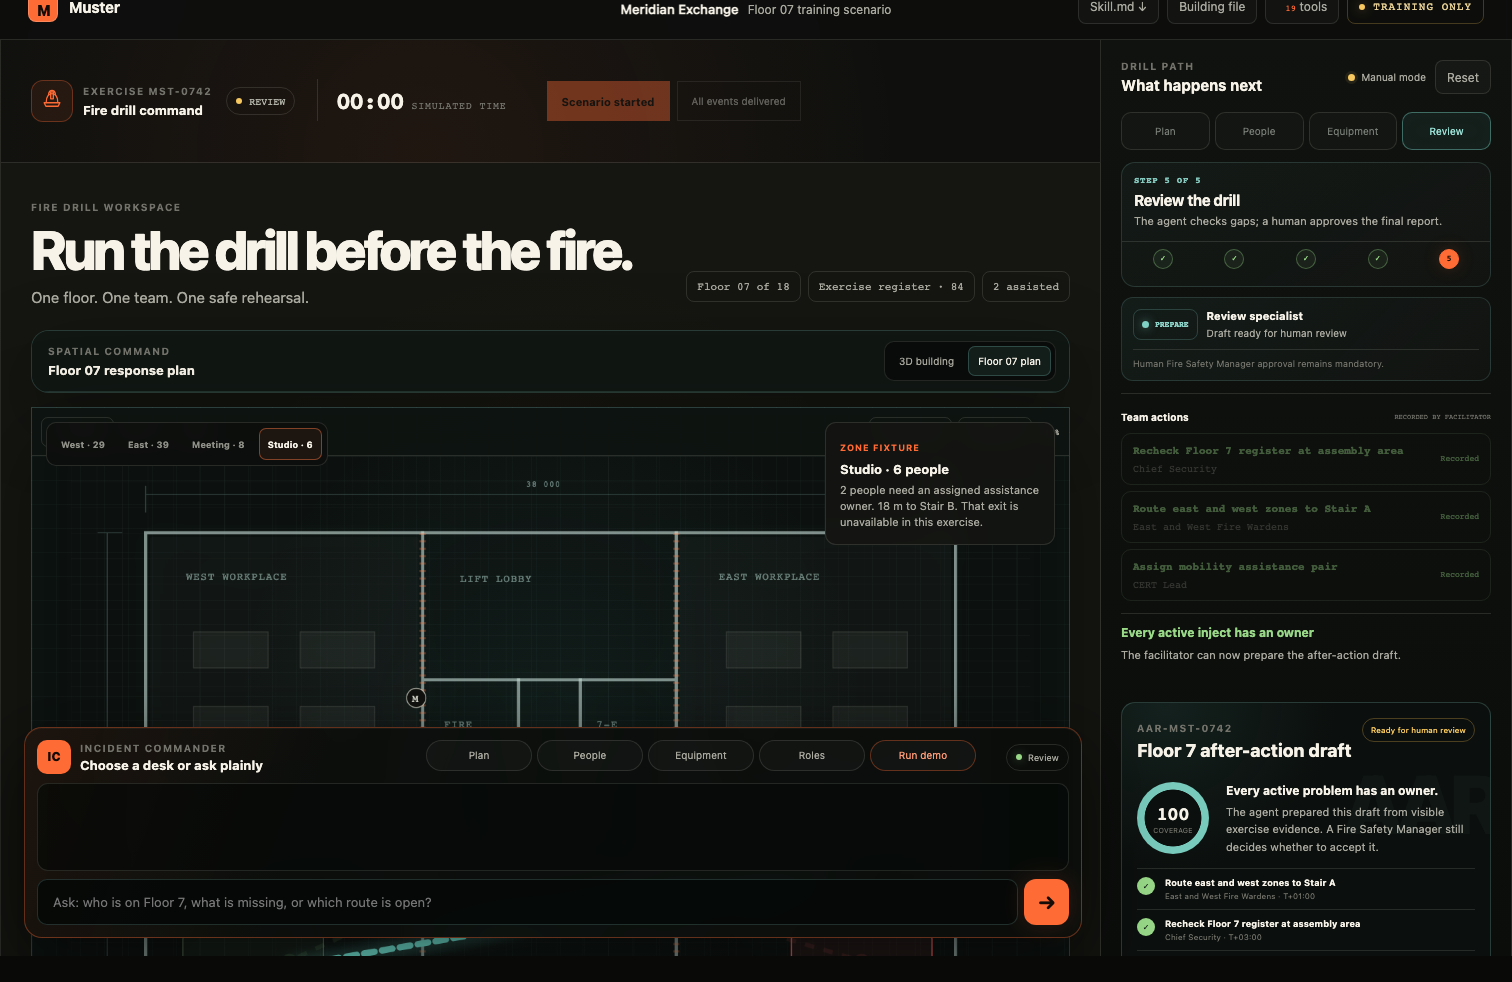
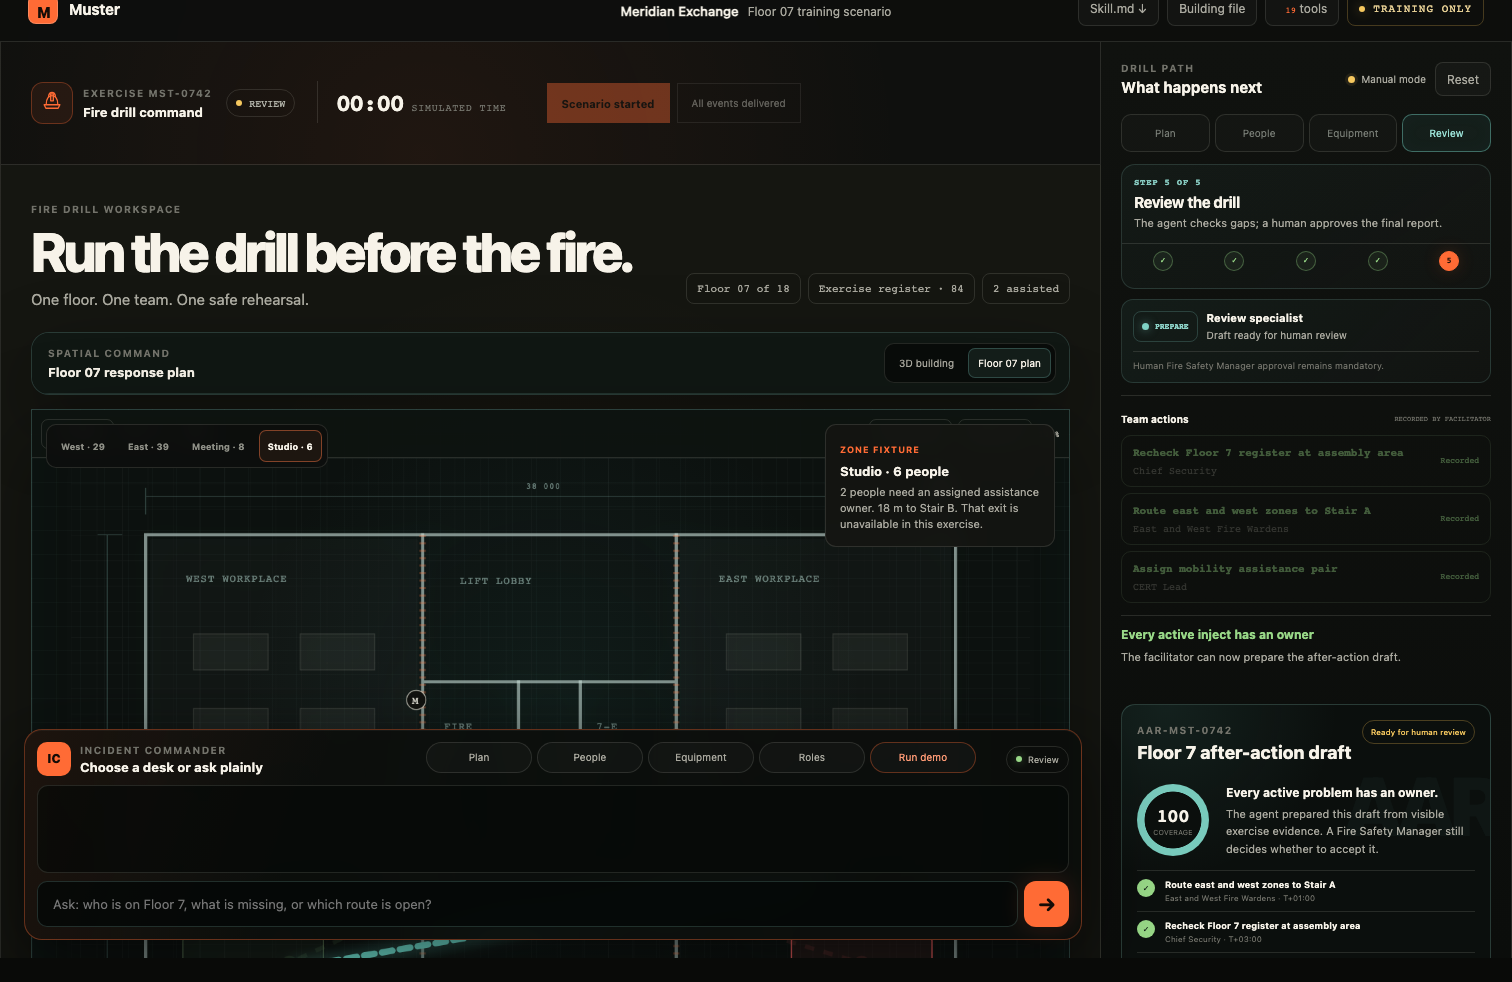
Add authored fire trail storytelling

diff --git a/styles.css b/styles.css
@@ -682,6 +682,18 @@ footer { padding: 13px 28px; background: #090a08; font-size: 10px; }
 .floor-viewport.drawing { cursor: crosshair; }
 .user-route { fill: none; stroke: #70e1d0; stroke-width: 6; stroke-linecap: round; stroke-linejoin: round; opacity: 0; filter: drop-shadow(0 0 7px rgba(112,225,208,.7)); pointer-events: none; }
 .user-route.active { opacity: 1; stroke-dasharray: 10 7; animation: route-flow 1.1s linear infinite; }
+.fire-trail { opacity: 0; pointer-events: none; transition: opacity .45s ease; }
+.fire-trail path { fill: none; stroke: #ff6b35; stroke-width: 8; stroke-linecap: round; stroke-dasharray: 4 18; filter: drop-shadow(0 0 10px rgba(255,74,25,.8)); }
+.fire-trail circle { fill: #ff8b4f; filter: drop-shadow(0 0 12px #ff552a); transform-box: fill-box; transform-origin: center; }
+.story-signal .fire-trail { opacity: .26; }
+.story-spread .fire-trail { opacity: .82; }
+.story-spread .fire-trail path { animation: ember-travel 1.15s linear infinite; }
+.story-spread .fire-trail circle { animation: ember-pulse 1.4s ease-in-out infinite; }
+.story-spread .fire-trail circle:nth-child(3) { animation-delay: -.4s; }.story-spread .fire-trail circle:nth-child(4) { animation-delay: -.8s; }
+.narrative-caption { position: absolute; z-index: 7; left: 50%; bottom: 13px; max-width: 370px; min-height: 44px; padding: 8px 12px; display: grid; gap: 4px; border: 1px solid rgba(255,107,53,.25); border-radius: 9px; background: rgba(24,12,8,.84); transform: translateX(-50%); backdrop-filter: blur(12px); }
+.narrative-caption span { color: #ff9d78; font: 800 7px var(--mono); letter-spacing: .09em; text-transform: uppercase; }.narrative-caption strong { color: #f5d7cb; font-size: 9px; }
+.story-critical .narrative-caption { border-color: rgba(255,92,92,.38); background: rgba(30,9,9,.88); }
+.building-view.drill-live .tower-floor.loaded { box-shadow: 0 0 0 2px rgba(255,107,53,.28), 0 0 42px rgba(255,74,25,.38); animation: floor-alert 1.7s ease-in-out infinite; }
 .plan-gesture { position: absolute; z-index: 6; right: 14px; bottom: 13px; max-width: 290px; min-height: 27px; padding: 0 9px; display: flex; align-items: center; border: 1px solid rgba(145,203,194,.2); border-radius: 7px; color: rgba(185,216,209,.66); background: rgba(7,12,10,.86); font: 700 8px var(--mono); text-transform: uppercase; backdrop-filter: blur(10px); }
 
 .operation-card { margin-top: 10px; padding: 11px; display: grid; grid-template-columns: auto 1fr; gap: 9px; border: 1px solid rgba(136,199,190,.18); border-radius: 12px; background: linear-gradient(135deg, rgba(77,162,151,.08), rgba(255,255,255,.012)); }
@@ -732,6 +744,9 @@ footer { padding: 13px 28px; background: #090a08; font-size: 10px; }
 
 @keyframes route-flow { to { stroke-dashoffset: -17; } }
 @keyframes beacon { 50% { opacity: .38; transform: scale(.76); } }
+@keyframes ember-travel { to { stroke-dashoffset: -22; } }
+@keyframes ember-pulse { 50% { opacity: .35; transform: scale(.58); } }
+@keyframes floor-alert { 50% { filter: brightness(1.35); } }
 
 @media (max-width: 1180px) {
   .building-view { grid-template-columns: minmax(220px,.8fr) minmax(360px,1.4fr); }
@@ -749,6 +764,7 @@ footer { padding: 13px 28px; background: #090a08; font-size: 10px; }
   .plan-controls { align-items: stretch; flex-direction: column; }
   .plan-controls > div { justify-content: space-between; }
   .plan-gesture { display: none; }
+  .narrative-caption { left: auto; right: 8px; bottom: 8px; max-width: 62%; transform: none; }
 }
 
 @media (max-width: 480px) {

diff --git a/app.js b/app.js
@@ -812,6 +812,18 @@ function renderMap() {
   const floor = document.querySelector('.floor-wrap');
   floor.classList.toggle('simulation-running', state.status === 'running');
   floor.classList.toggle('simulation-review', state.status === 'review' || state.status === 'complete');
+  floor.classList.toggle('story-signal', hasSmoke);
+  floor.classList.toggle('story-spread', stairBlocked);
+  floor.classList.toggle('story-critical', rosterGap && !assistResolved);
+  $('#buildingView').classList.toggle('drill-live', hasSmoke);
+  const narrative = $('#narrativeCaption');
+  narrative.innerHTML = rosterGap && !assistResolved
+    ? '<span>T+04:00 · authored exercise story</span><strong>Two people still need a named assistance owner.</strong>'
+    : stairBlocked
+      ? '<span>T+02:00 · authored exercise story</span><strong>Scripted smoke removes Stair B. Compare another path.</strong>'
+      : hasSmoke
+        ? '<span>T+00:00 · authored exercise story</span><strong>Detector signal appears beside room 7-E.</strong>'
+        : '<span>Authored exercise story</span><strong>Plan ready · no active signal</strong>';
   const callout = $('#mapCallout');
   const zoneButton = document.querySelector(`[data-zone="${state.focusZone}"]`);
   document.querySelectorAll('[data-zone]').forEach((button) => button.classList.toggle('active', button === zoneButton));

diff --git a/index.html b/index.html
@@ -172,6 +172,10 @@
             <g class="hazard" id="hazard" filter="url(#glow)">
               <circle cx="526" cy="296" r="19" /><circle cx="526" cy="296" r="7" />
             </g>
+            <g class="fire-trail" id="fireTrail" aria-hidden="true">
+              <path d="M526 296C506 318 500 349 478 372C451 399 424 405 392 424" />
+              <circle cx="514" cy="322" r="5" /><circle cx="493" cy="357" r="4" /><circle cx="457" cy="392" r="6" /><circle cx="418" cy="414" r="4" />
+            </g>
             <g class="assistance" id="assistance">
               <circle cx="704" cy="397" r="17" /><text x="699" y="402">2</text>
             </g>
@@ -229,6 +233,7 @@
             <p>The agent can read routes, roles, and plan revision. It cannot control building systems.</p>
           </div>
           <div class="simulation-status"><i></i><span id="simulationLabel">Simulation idle</span></div>
+          <div class="narrative-caption" id="narrativeCaption"><span>Authored exercise story</span><strong>Plan ready · no active signal</strong></div>
           <div class="plan-gesture" id="planGesture">Click a room · drag to pan · scroll to zoom</div>
           <div class="scan-beam" aria-hidden="true"></div>
         </div>
